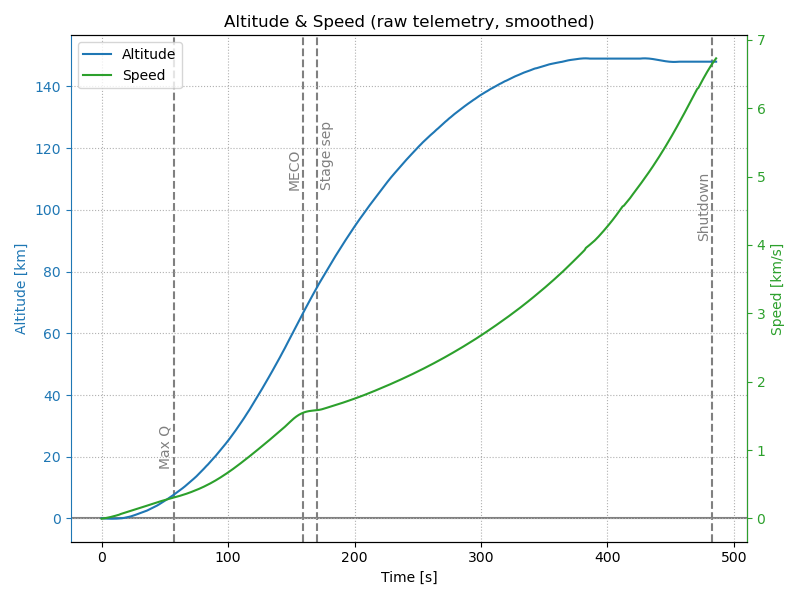
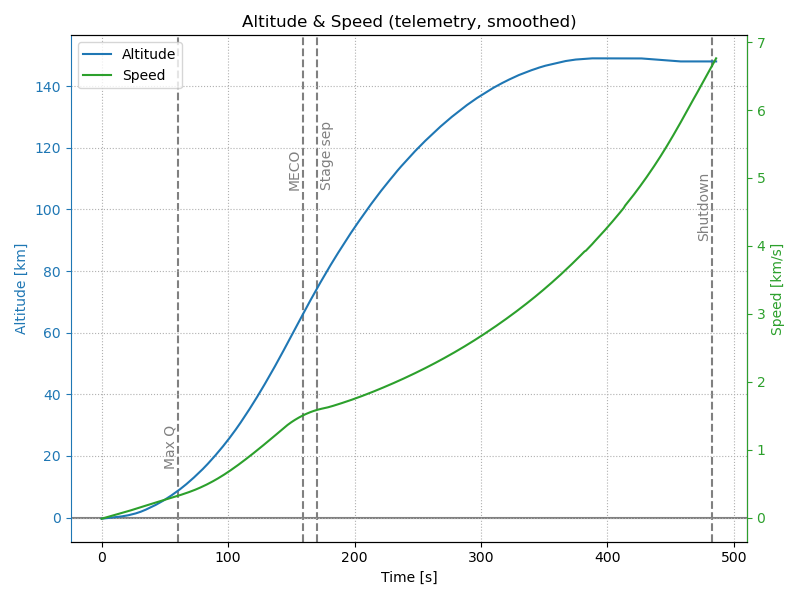
Improve smoothing filter

diff --git a/analyze_IFT2.py b/analyze_IFT2.py
@@ -11,20 +11,20 @@ from ISA1976 import ISA1976
 from Orbits import Orbit
 from SolarSystem import Earth
 
-# =======================================
+# ==============================================================================
 
 save = "--save" in sys.argv
 
 combined_plot = True
 
 events = [
-  ["Max Q", 57, 0.15, -15],
+  ["Max Q", 60.5, 0.15, -15],
   ["MECO", 120+39, 0.7, -15],
   ["Stage sep", 120+50, 0.7, 3],
   ["Shutdown", 8*60+3, 0.6, -15],
 ]
 
-# =======================================
+# ==============================================================================
 
 def parse_float(s):
   try:
@@ -51,9 +51,10 @@ def impute_missing_values(xs, ys):
     i += 1
 
 def smoothen(values):
-  return savgol_filter(values, 30, 3)
+  # return moving_average(values, 30)
+  return savgol_filter(values, 31, 1)
 
-# --------------------------------------
+# ==============================================================================
  
 # Load data (own scraping)
 fname = "data/IFT2_telemetry.csv"
@@ -84,7 +85,6 @@ altitude = smoothen(raw_altitude)
 
 # Speed in inertial Earth-centered frame
 vrot = 465*cos(radians(18))
-orb_speed = speed + vrot
 
 # Acceleration
 accel = np.gradient(speed, time)
@@ -100,7 +100,7 @@ speed_numer = np.sqrt(hspeed**2 + vspeed**2)
 # Acceleration components
 haccel = smoothen(np.gradient(hspeed, time))
 vaccel = smoothen(np.gradient(vspeed, time))
-accel_numer = smoothen(np.sqrt(haccel**2 + vaccel**2))
+accel_numer = np.sqrt(haccel**2 + vaccel**2)
 
 # Horizontal (downrange) distance
 hdist = []
@@ -114,7 +114,7 @@ for i in range(len(time)):
     x += vx*(t-tlast)
     hdist.append(x)
     tlast = t
-hdist = np.array(hdist) / 1e3
+hdist = np.array(hdist)
 
 # Mach number and dynamic pressure
 atmo = ISA1976()
@@ -138,27 +138,35 @@ for i in range(len(time)):
 Mach = np.array(Mach)
 dynpres = np.array(dynpres)
 
-# Orbital energy
+# Orbital state vectors (position and velocity vectors)
+# The trajectory is assumed to be contained in a vertical xy plane
 RE = 6372
 mu = 3.986004418e14
-radius = altitude + RE*1e3
-energy = orb_speed**2/2 - mu/radius
+pos_orb = []; vel_orb = []
+for i in range(len(time)):
+  pos_orb.append((hdist[i], altitude[i]+RE*1e3, 0))
+  vel_orb.append((hspeed[i]+vrot, vspeed[i], 0))
+pos_orb = np.array(pos_orb)
+vel_orb = np.array(vel_orb)
+
+# Orbital energy
+radius = np.linalg.norm(pos_orb, axis=1)
+speed_orb = np.linalg.norm(vel_orb, axis=1)
+energy = speed_orb**2/2 - mu/radius
 a = (RE+100)*1e3
 E_orbit = -mu/(2*a)
 E_surf = -mu/(RE*1e3)
 # print(E_orbit/1e6, E_surf/1e6, energy[-1]/1e6)
 
 # Osculating orbits
-peris = []
+perigee = [-RE, -RE]
 for i in range(2, len(time)):
-  vel = (hspeed[i]+vrot, vspeed[i], 0)
-  pos = (0, altitude[i]+RE*1e3, 0)
   orb = Orbit(Earth)
-  orb.from_state_vectors(pos, vel, dtm.datetime(2023, 11, 18))
+  orb.from_state_vectors(pos_orb[i], vel_orb[i], dtm.datetime(2023, 11, 18))
   hpe = np.linalg.norm(orb.get_periapsis())/1e3 - RE
-  peris.append(hpe)
+  perigee.append(hpe)
 
-# =====================================
+# ==============================================================================
 # PLOTS
 
 if combined_plot:
@@ -175,7 +183,7 @@ if combined_plot:
 else:
   plt.figure(figsize=(8,6))
 
-plt.title("Altitude & Speed (raw telemetry, smoothed)")
+plt.title("Altitude & Speed (telemetry, smoothed)")
 handles = []
 
 # Altitude
@@ -327,7 +335,7 @@ plt.axhline(0, color="gray", zorder=-10)
 x1, x2 = plt.xlim()
 plt.ylim(-1, 155)
 plt.grid(ls=":")
-plt.title("Trajectory profile (planar, not to scale)")
+plt.title("Trajectory profile (planar, unequal aspect)")
 plt.xlabel("Downrange distance [km]")
 plt.ylabel("Altitude [km]")
 # plt.gca().set_aspect("equal")
@@ -412,7 +420,7 @@ plt.gca().yaxis.label.set_color(color)
 # Perigee
 color = "C5"
 ax2 = plt.gca().twinx()
-ln2, = plt.plot(time[2:], peris, color=color, label="Perigee altitude")
+ln2, = plt.plot(time, perigee, color=color, label="Perigee altitude")
 plt.ylim(-6700, 300)
 plt.ylabel("Perigee altitude [km]")
 plt.gca().spines['left'].set_visible(False)
@@ -434,6 +442,51 @@ if not combined_plot:
     print("Wrote", fname)
   else:
     plt.show()
+
+# -----------------------
+
+# Save all computed data to file
+out_fname = "data/IFT2_all_data.csv"
+fout = open(out_fname, "w")
+strings = [
+  "Time [s]",
+  "Raw altitude [km]",
+  "Raw speed [m/s]",
+  "Smoothed altitude [km]",
+  "Smoothed speed [m/s]",
+  "Downrange distance [km]",
+  "Horizontal speed [m/s]",
+  "Vertical speed [m/s]",
+  "Net acceleration [m/s^2]",
+  "Horizontal acceleration [m/s^2]",
+  "Vertical acceleration [m/s^2]",
+  "Mach number",
+  "Dynamic pressure [kPa]",
+  "Specific orbital energy [MJ/kg]",
+  "Perigee altitude [km]",
+]
+fout.write(",".join(strings)+"\n")
+for i in range(len(time)):
+  strings = [
+    f"{time[i]:.0f}",
+    f"{raw_altitude[i]/1e3:.0f}",
+    f"{raw_speed[i]:.0f}",
+    f"{altitude[i]/1e3:.1f}",
+    f"{speed[i]:.1f}",
+    f"{hdist[i]/1e3:.1f}",
+    f"{hspeed[i]:.1f}",
+    f"{vspeed[i]:.1f}",    
+    f"{accel_numer[i]:.1f}",
+    f"{haccel[i]:.1f}",
+    f"{vaccel[i]:.1f}",
+    f"{Mach[i]:.1f}",
+    f"{dynpres[i]/1e3:.1f}",
+    f"{energy[i]/1e6:.1f}",
+    f"{perigee[i]:.1f}",
+  ]
+  fout.write(",".join(strings)+"\n")
+fout.close()
+print("Wrote", out_fname)
 
 # -----------------------
 
